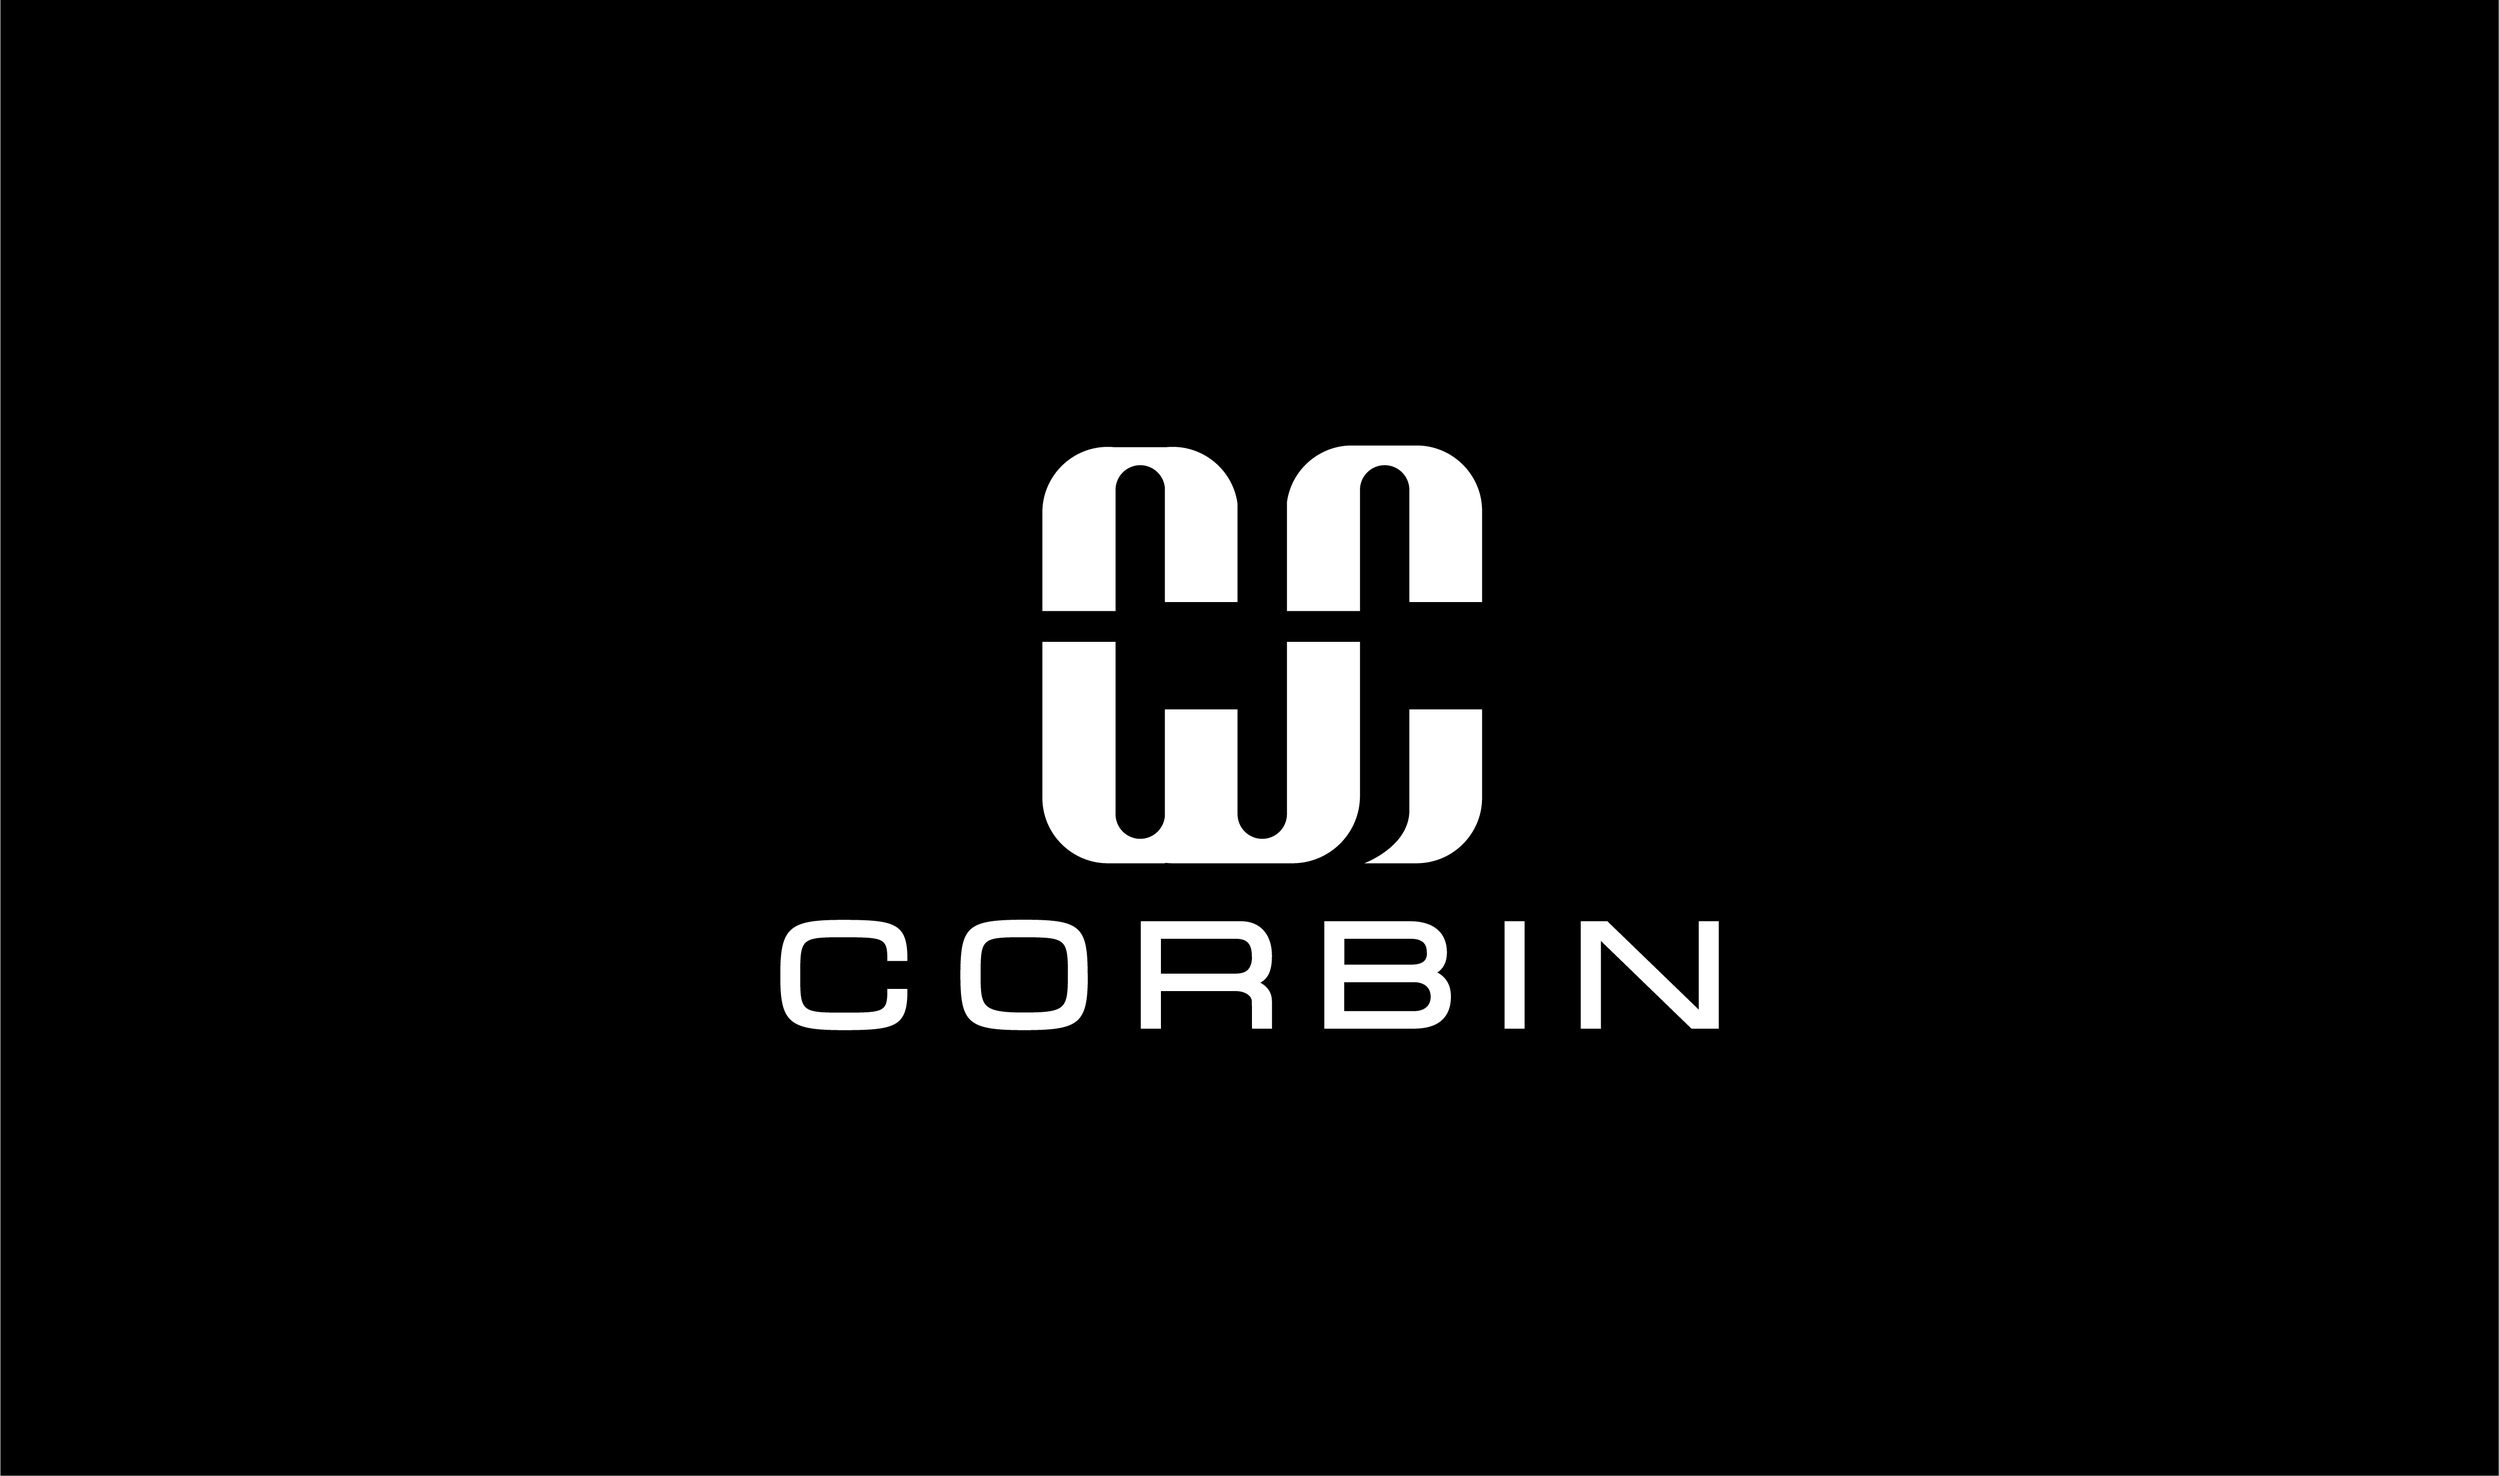
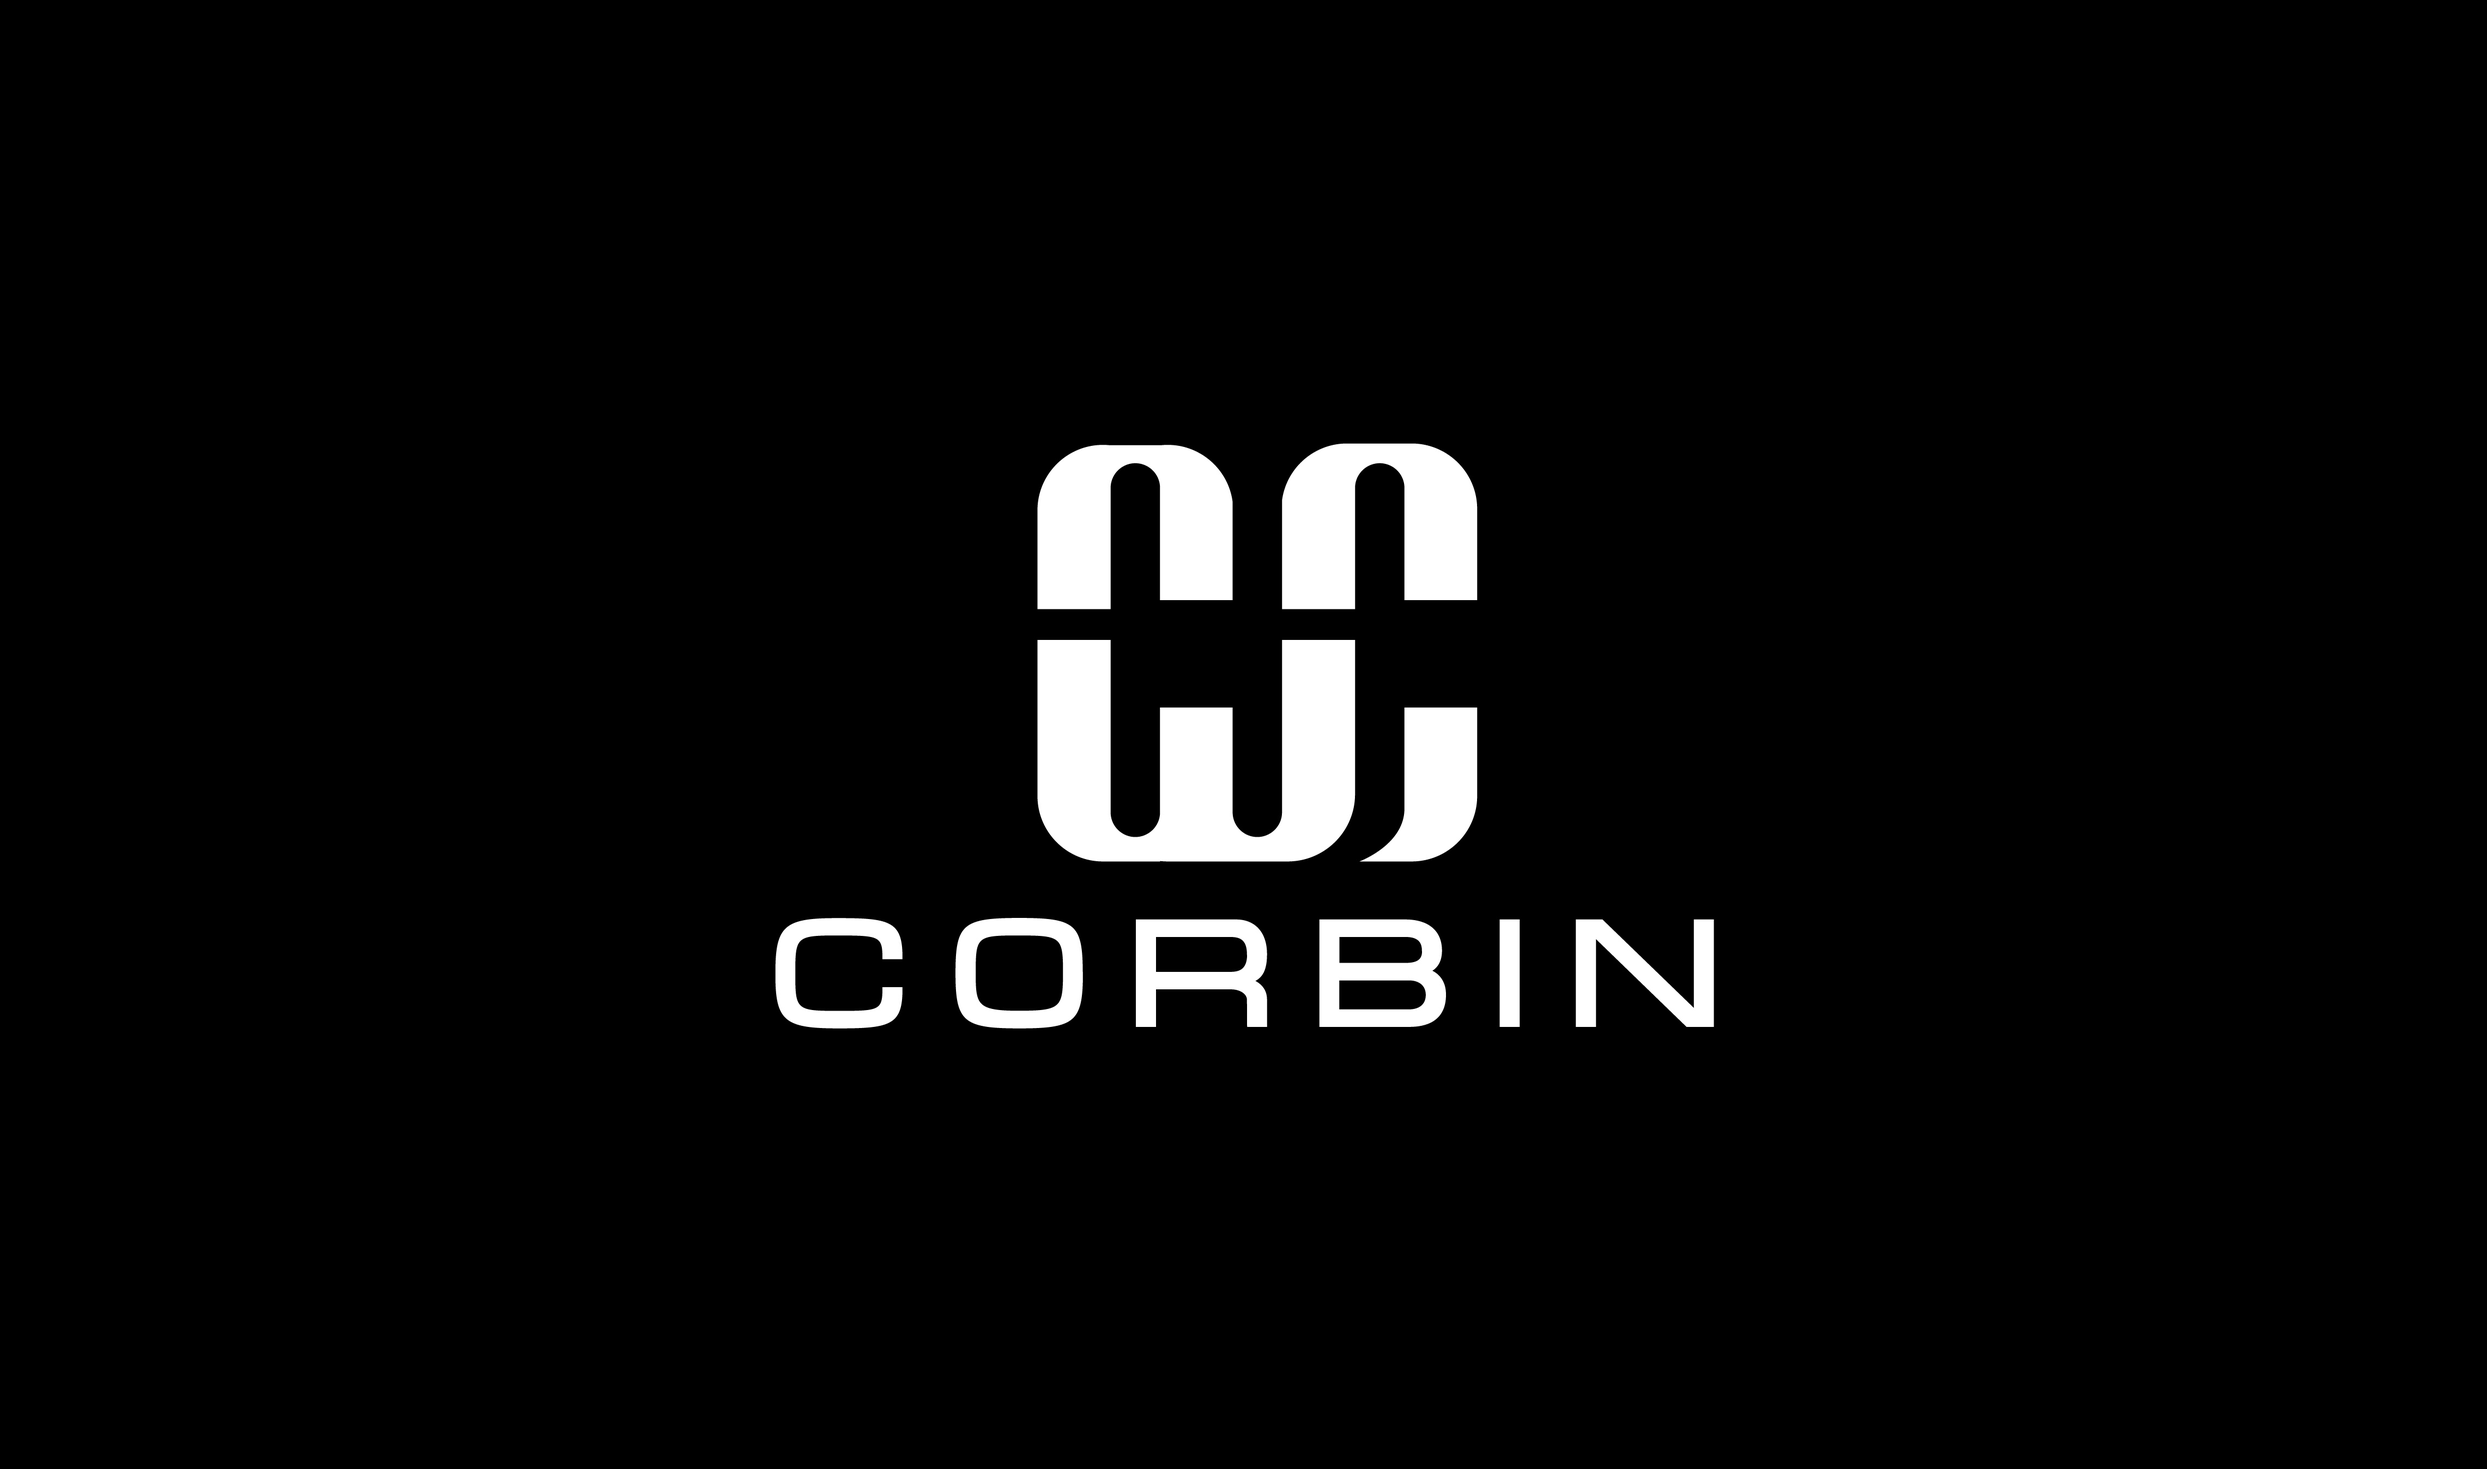
update size of bg image

diff --git a/app/_components/background/index.tsx b/app/_components/background/index.tsx
@@ -2,12 +2,13 @@ import Image from "next/image";
 
 export default function Background() {
     return (
-        <div className="absolute inset-0 -z-10">
+        <div className="absolute bg-black inset-0 -z-10">
             <Image
                 src="/background.jpg"
-                className="object-cover w-full h-full"
+                className="object-cover absolute top-1/2 left-1/2 -translate-x-1/2 -translate-y-1/2 min-w-[1000px]"
                 alt="background"
-                fill
+                width={1000}
+                height={1000}
                 priority
                 quality={100}
             />
